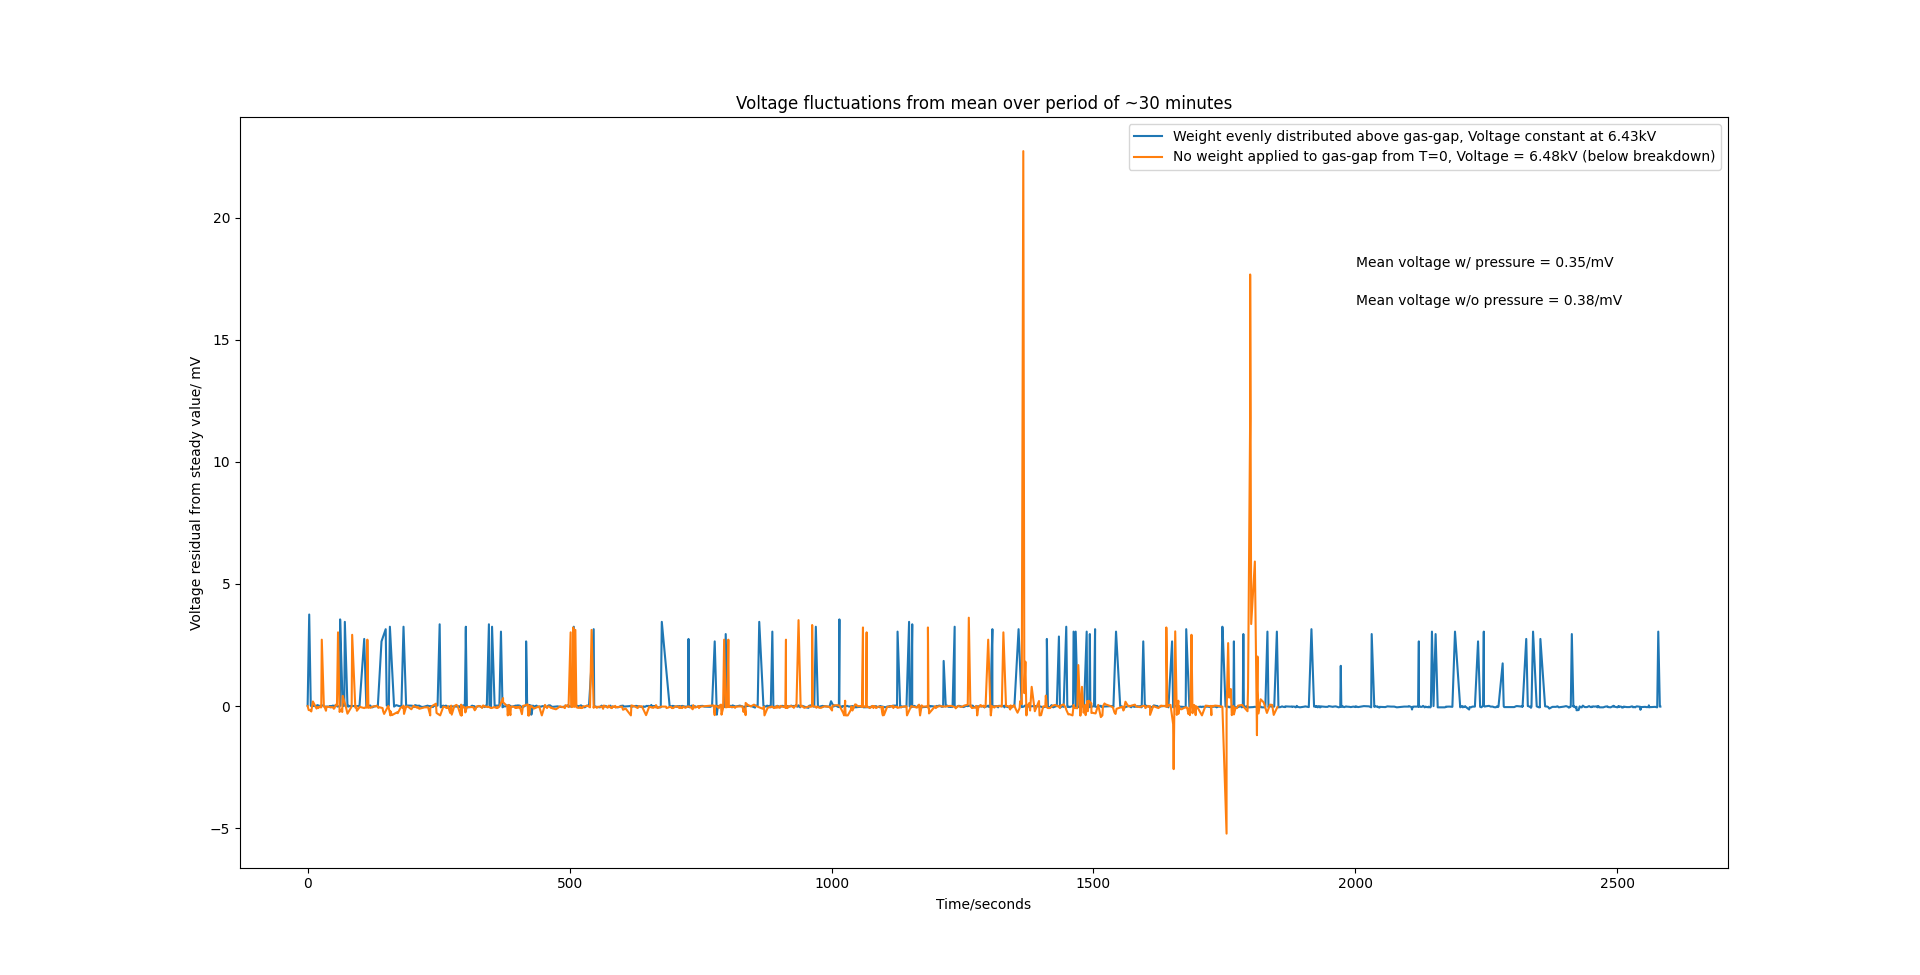
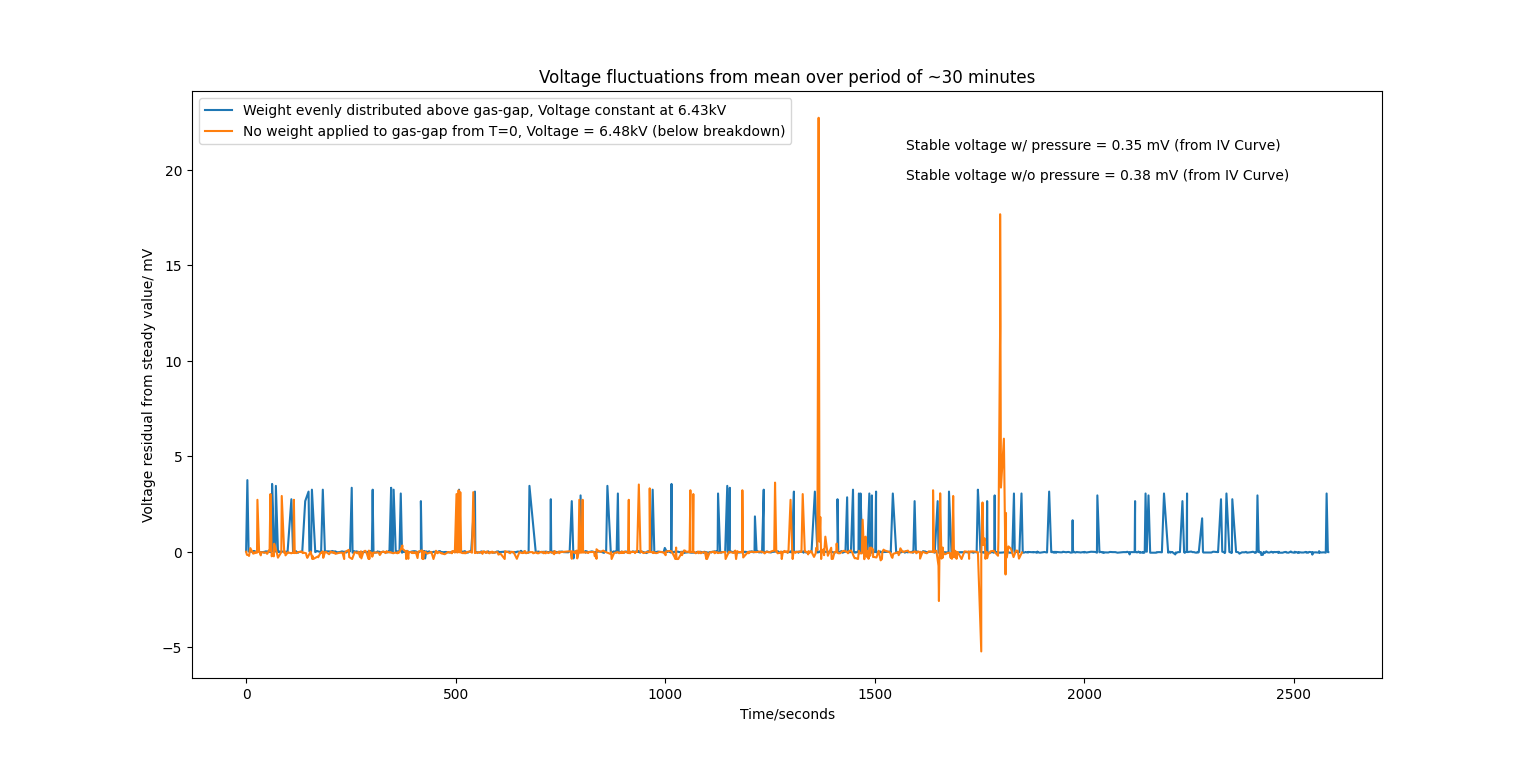
minor change to xml reader

diff --git a/RPC_Leakage_Current_plotters/RPC 07.24/XML_Reader.py b/RPC_Leakage_Current_plotters/RPC 07.24/XML_Reader.py
@@ -112,8 +112,8 @@ plt.plot(times_without_books,residuals_wo_books,label='No weight applied to gas-
 plt.xlabel('Time/seconds')
 plt.ylabel('Voltage residual from steady value/ mV')
 
-plt.annotate(f'Mean voltage w/ pressure = {mean_voltage_w_books:.2f}/mV', xy=(0.75, 0.80), xycoords='axes fraction', color='black')
-plt.annotate(f'Mean voltage w/o pressure = {mean_voltage_wo_books:.2f}/mV', xy=(0.75,0.75), xycoords='axes fraction', color='black')
+plt.annotate(f'Stable voltage w/ pressure = {mean_voltage_w_books:.2f} mV (from IV Curve)', xy=(0.60, 0.90), xycoords='axes fraction', color='black')
+plt.annotate(f'Stable voltage w/o pressure = {mean_voltage_wo_books:.2f} mV (from IV Curve)', xy=(0.60,0.85), xycoords='axes fraction', color='black')
 plt.title('Voltage fluctuations from mean over period of ~30 minutes')
 
 
